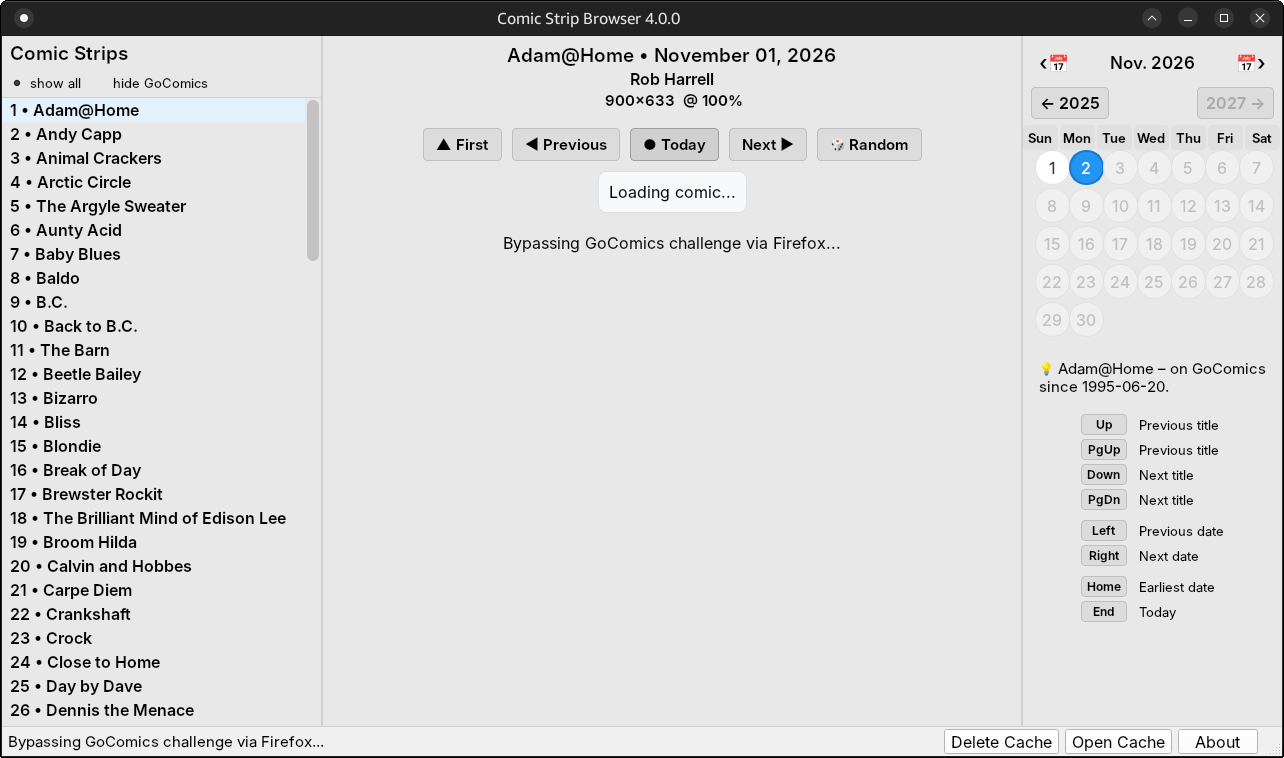
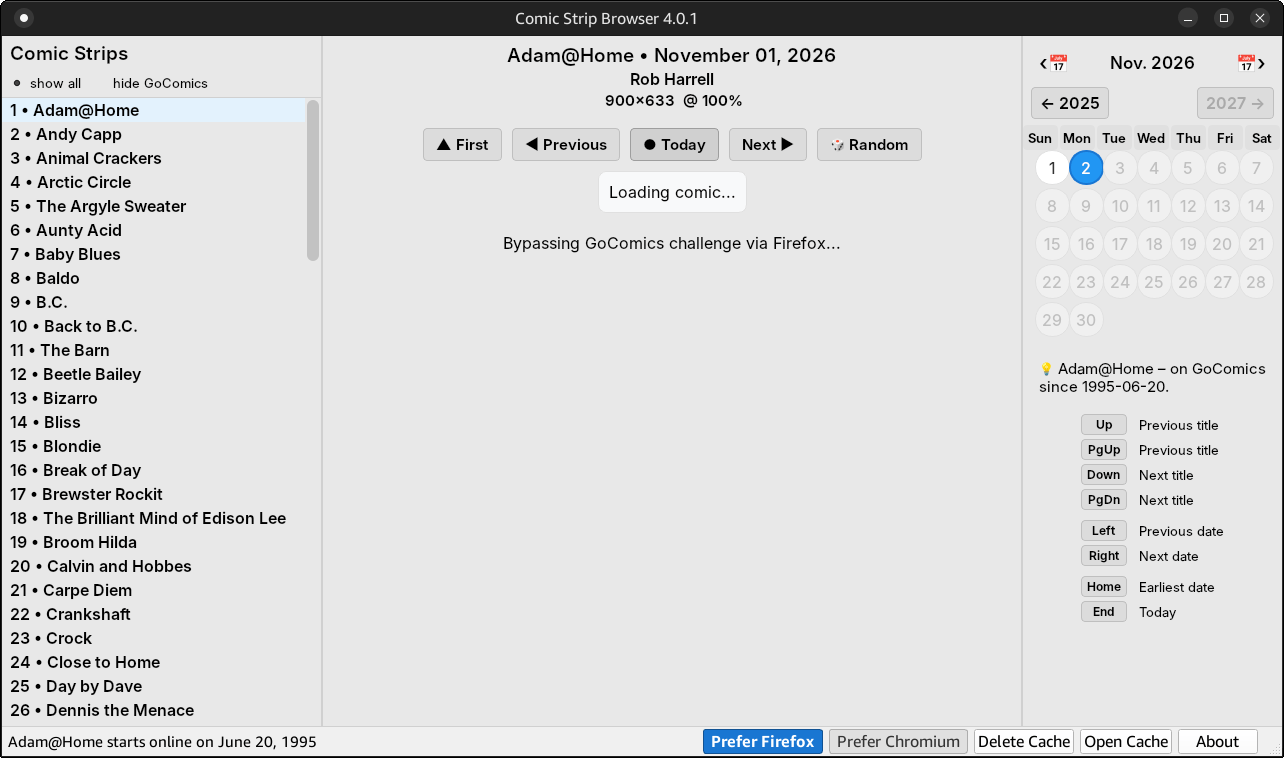
Bug-fix release 4.0.1

diff --git a/README.md b/README.md
@@ -5,6 +5,9 @@ A standalone PyQt6 application for browsing a selection of comic strips from GoC
 > [!TIP]
 > **In version 4, most GoComics blocks can be defeated!**
 
+> [!CAUTION]
+> **Release 4.0.0 is buggy. Please update to 4.0.1!** 👈
+
 This app started as vibe-coded with Amazon's Kiro, but over time it underwent countless changes and improvements, both manually and through the contributions of Claude, Qwen, and Gemini. Read **[the birth story](https://ludditus.com/2025/07/25/the-magic-of-amazons-kiro/)**. 
 
 Version 1.1.3 was the last to have been touched by Claude via Kiro.
@@ -19,7 +22,10 @@ Version 3.1.0 added proper **feedback** for situations where **GoComics blocks y
 
 Version 3.1.2 **refined the feedback** for GoComics-related errors: Bunny Shield challenge, 403, and 429.
 
-Version 4.0.0 **implemented mechanisms to defeat the Bunny Shield challenge using a headless browser!**
+Version 4.0.0 **implemented mechanisms to defeat the Bunny Shield challenge using a headless browser!** ☢ However, it’s so buggy that you **must** use 4.0.1 instead!
+
+Version 4.0.1 **fixed many severe bugs** and **greatly improved the resilience to GoComics’ Bunny Shield challenges!**
+
 
 ### 1. Major features
 	
@@ -33,11 +39,11 @@ Version 4.0.0 **implemented mechanisms to defeat the Bunny Shield challenge usin
 
 #### Debian 13 XFCE:
 
-![](ComicStripBrowser_Debian13_a_400.png)
+![](ComicStripBrowser_Debian13_a_401.png)
 
-![](ComicStripBrowser_Debian13_b_400.png)
+![](ComicStripBrowser_Debian13_b_401.png)
 
-![](ComicStripBrowser_Debian13_c_400.png)
+![](ComicStripBrowser_Debian13_c_401.png)
 
 #### Fedora 45 KDE:
 
@@ -45,11 +51,11 @@ Version 4.0.0 **implemented mechanisms to defeat the Bunny Shield challenge usin
 
 #### Windows (125% scaling):
  
-![](ComicStripBrowser_Windows_a_400.png)
+![](ComicStripBrowser_Windows_a_401.png)
 
-![](ComicStripBrowser_Windows_b_400.png)
+![](ComicStripBrowser_Windows_b_401.png)
 
-![](ComicStripBrowser_Windows_c_400.png)
+![](ComicStripBrowser_Windows_c_401.png)
 
 ### 3. Currently supported comic strips
 
@@ -179,9 +185,12 @@ Note that some comic titles, especially in their early days, can have large gaps
 > [!IMPORTANT]
 > **For the first time, release 4.0.0 can bypass the Bunny Shield challenge!** 🎉
 
+> [!CAUTION]
+> **Release 4.0.0 is buggy. Please update to 4.0.1!** 👈
+
 👉 When needed, the **Bunny Shield JS Proof-of-Work (PoW) resolver uses the host OS browser in headless mode**. This avoids increasing  the app size. The possible browsers are queried with different priorities depending on the OS:
-* Windows: Edge, Chrome, Brave, Firefox.
-* Linux: `firefox-esr`, `firefox`, `chromium`, `google-chrome` (plus their Flatpak versions).
+* **Windows:** Chromium, Chrome, Edge, Brave, Firefox, Firefox ESR.
+* **Linux:** Firefox ESR, Firefox, Chromium, Chrome, Brave, Edge, including Flatpak versions.
 
 Other differences:
 * The Chromium family is invoked via a local CDP WebSocket.
